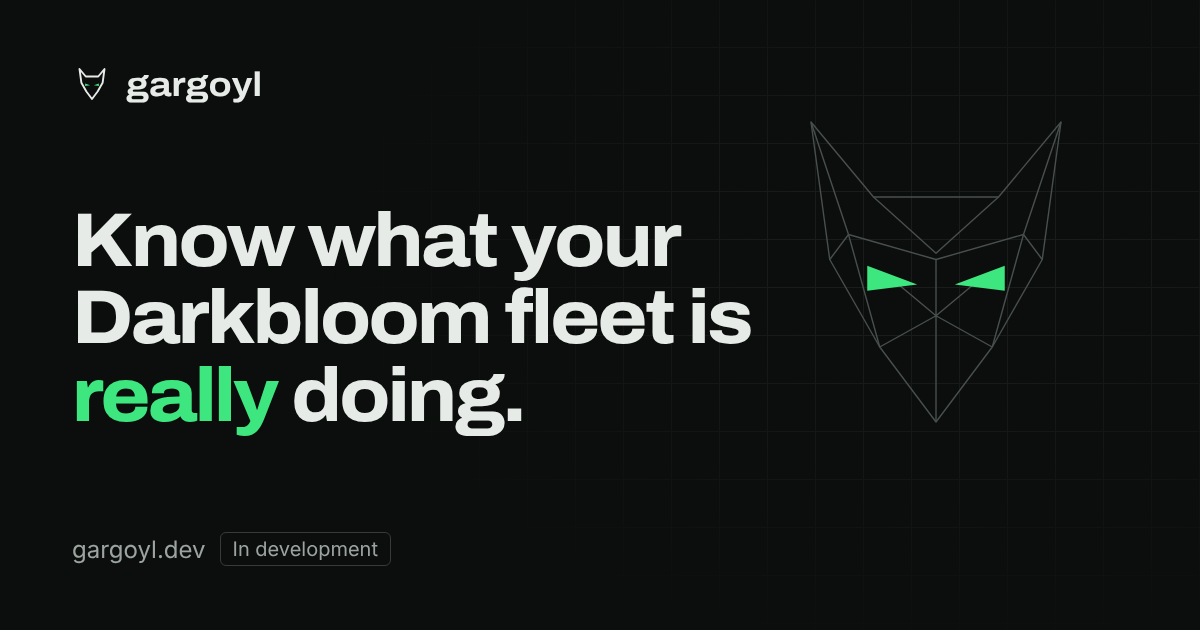
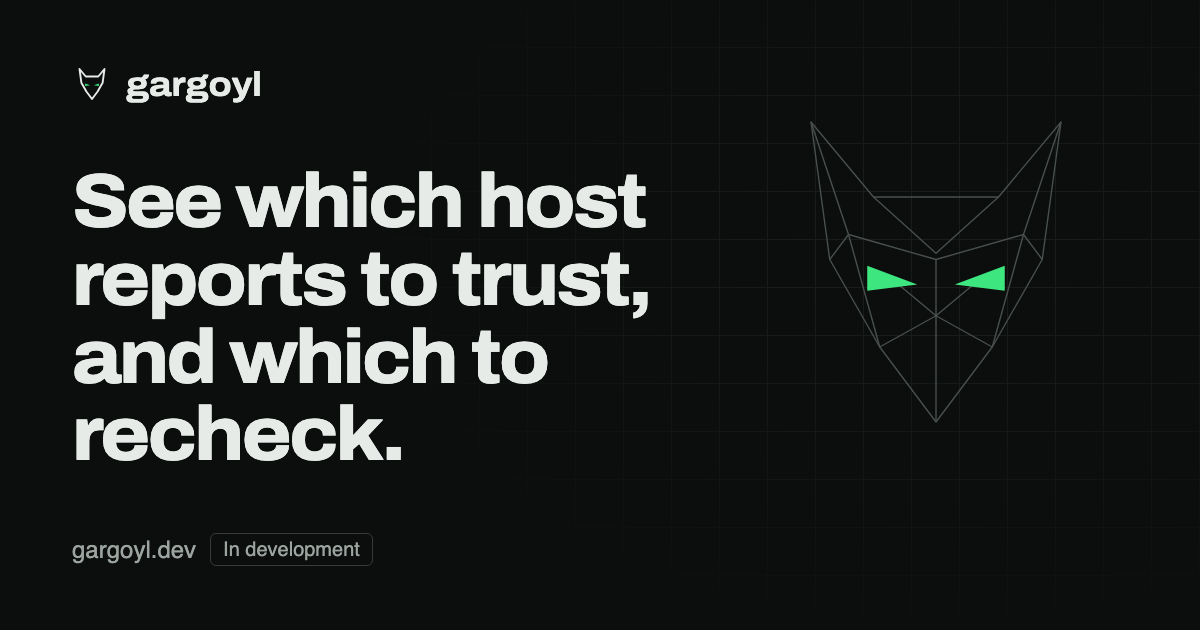
Marketing-friendly copy audit + prose-craft pass on the website (#101)
* site: rewrite marketing copy for lay readers, apply prose-craft rules

Problem: the site copy was written by engineers for engineers. Insider
jargon (per-field state, model residency, opaque host ID), negation-led
framing (never rounded up, Nothing runs on its own, no export override),
and passive voice made the page hard for a new visitor to evaluate.

Change: rewrote every user-facing sentence in site/src/index.html to
lead with the reader's benefit, state the app's honesty doctrine in
plain positive language, and pass the prose-craft skill checks (0
adverbial openers, 0 em dashes, 0.16 short-sentence share, active
voice, second person). Updated the OG card template and re-rendered
og.png to match the new headline.

Effect: a first-time visitor now understands what Gargoyl shows them,
why they should trust the states it reports, and what the development
boundary is, without reading an internal design doc.

* site: describe the host ID as assigned and opaque, not a label

The contract defines host_id as an assigned canonical UUID, never derived
from the hostname, and lists local host labels as sensitive data the
schema refuses. "A short ID you can treat as a label" said the opposite.

* site: restore customer identifiers and the no-override guarantee

"Names" was vaguer than the contract's "customer identifiers" and
collided with "hostnames" and "model names" in the same list. Dropping
"no export override" removed a guarantee the schema enforces.
[…]

Changed region(s): [[0.0617, 0.2714, 0.6475, 0.754], [0.0617, 0.8444, 0.3392, 0.9048], [0.0925, 0.1206, 0.2158, 0.1508]]

diff --git a/site/src/index.html b/site/src/index.html
@@ -3,22 +3,22 @@
 <head>
   <meta charset="utf-8">
   <meta name="viewport" content="width=device-width, initial-scale=1">
-  <title>Gargoyl — Darkbloom fleet monitoring you can inspect</title>
-  <meta name="description" content="Gargoyl is an in-development project for privacy-first evidence on inference-provider fleets, starting with Darkbloom: per-field state for routing, model residency and verification, with confirm-each-host repairs in development.">
+  <title>Gargoyl: inspect your Darkbloom fleet, one host at a time</title>
+  <meta name="description" content="Gargoyl turns each Darkbloom host's routing, model and verification reports into an evidence dashboard that shows you which state to trust and which to recheck. In development now, with confirm-each-host repairs on the way.">
   <meta name="color-scheme" content="dark">
   <meta name="theme-color" content="#0c0e0d">
   <link rel="canonical" href="https://gargoyl.dev/">
   <meta property="og:title" content="Gargoyl">
-  <meta property="og:description" content="Know what your Darkbloom fleet is really doing.">
+  <meta property="og:description" content="See which Darkbloom host reports to trust, which to recheck, and the evidence behind each state.">
   <meta property="og:url" content="https://gargoyl.dev/">
   <meta property="og:type" content="website">
   <meta property="og:image" content="https://gargoyl.dev/og.png">
   <meta property="og:image:width" content="1200">
   <meta property="og:image:height" content="630">
-  <meta property="og:image:alt" content="Gargoyl: Know what your Darkbloom fleet is really doing.">
+  <meta property="og:image:alt" content="Gargoyl: See which host reports to trust, and which to recheck.">
   <meta name="twitter:card" content="summary_large_image">
   <meta name="twitter:title" content="Gargoyl">
-  <meta name="twitter:description" content="Know what your Darkbloom fleet is really doing.">
+  <meta name="twitter:description" content="See which Darkbloom host reports to trust, which to recheck, and the evidence behind each state.">
   <meta name="twitter:image" content="https://gargoyl.dev/og.png">
   <meta name="twitter:creator" content="@nathan_hangen">
   <link rel="icon" href="icon/favicon.svg" type="image/svg+xml">
@@ -59,8 +59,8 @@
       <div class="hero-grid" aria-hidden="true"></div>
       <div class="wrap hero-inner">
         <div class="hero-copy">
-          <h1 id="hero-title">Know what your Darkbloom fleet is <em>really</em> doing.</h1>
-          <p class="lede">Built to show which hosts are up but not routed, missing a model, or past verification, with evidence behind every state. Repairs you confirm host by host are in development.</p>
+          <h1 id="hero-title">See which Darkbloom host reports to trust, and which to recheck.</h1>
+          <p class="lede">Gargoyl reads each host's routing, model and verification reports and shows the evidence behind every state, so a stale or blocked reading shows you which field to look at. Repairs you approve host by host are in development.</p>
           <div class="cta-row">
             <a class="btn btn-primary" {{link:github}}>
               View on GitHub
@@ -128,7 +128,7 @@
             </table>
 
             <figcaption class="panel-foot">
-              Every field carries its own state. Missing or conflicting evidence becomes unknown, never rounded up.
+              Every field keeps its own state. A field reads unknown if its evidence is missing or a source contradicts itself, and you know what to recheck.
             </figcaption>
           </figure>
         </div>
@@ -141,7 +141,7 @@
         <article class="principle">
           <div class="principle-text">
             <h3>Evidence over assumptions</h3>
-            <p>Every field carries its own source, timestamp, freshness window, and state: observed, stale, unknown, or blocked. Missing or conflicting evidence becomes unknown instead of being rounded up to “fine.”</p>
+            <p>Each field keeps its source, timestamp, freshness window and state: observed, stale, unknown, or blocked. A field reads unknown when its evidence is missing or a source contradicts itself, so you see what to recheck instead of a smoothed verdict.</p>
           </div>
           <figure class="snippet">
             <figcaption>One field, as a host reports it (example)</figcaption>
@@ -158,7 +158,7 @@
         <article class="principle">
           <div class="principle-text">
             <h3>Privacy by design</h3>
-            <p>The telemetry schema rejects prompts, completions, credentials, raw logs, customer identifiers, IP addresses, hostnames, and model names, with no export override. Only allowlisted aggregate fields, keyed to an assigned opaque host ID, can leave a host.</p>
+            <p>A host can only send the small set of aggregate fields on an allowlist, each one tied to an opaque ID assigned to that host, never derived from its hostname. Prompts, completions, credentials, raw logs, customer identifiers, IP addresses, hostnames and model names are rejected by the schema, and no setting turns that off.</p>
           </div>
           <figure class="snippet">
             <figcaption>What a host may send (example)</figcaption>
@@ -170,6 +170,7 @@
 <span class="no">rejected by the schema</span>
   <span class="k">prompts, completions</span>
   <span class="k">credentials, raw logs</span>
+  <span class="k">customer identifiers</span>
   <span class="k">IP addresses, hostnames</span>
   <span class="k">model names</span></code></pre>
           </figure>
@@ -177,7 +178,7 @@
         <article class="principle">
           <div class="principle-text">
             <h3>Repairs under your control <span class="badge">In development</span></h3>
-            <p>Repairs come from a short list of approved actions. Each is checked before it runs, targets one host, and waits for your confirmation. Nothing runs on its own. Tested in simulation so far, not yet on live hosts.</p>
+            <p>Repairs draw from a short, approved action list. Each repair checks its target first, touches one host, and waits for your confirmation. Nothing runs on its own. Repairs have been tested in simulation but not yet run on a live host.</p>
           </div>
           <figure class="snippet">
             <figcaption>Sketch of the flow, simulated hosts only</figcaption>
@@ -195,8 +196,8 @@
       <div class="wrap status-inner">
         <svg class="status-mark" aria-hidden="true"><use href="#mark"/></svg>
         <div>
-          <h2 id="status-title">Actively being built.</h2>
-          <p>Darkbloom is the first integration. The telemetry schema, privacy checks, and evidence dashboard are in progress; host enrollment and validation on live hosts are still ahead.</p>
+          <h2 id="status-title">We are building this now.</h2>
+          <p>Darkbloom is the first integration. The telemetry schema, privacy checks and evidence dashboard are in progress; host enrollment and live-host validation come next.</p>
         </div>
         <a class="btn btn-ghost" {{link:github}}>Follow on GitHub</a>
       </div>

diff --git a/site/og/og.html b/site/og/og.html
@@ -105,7 +105,7 @@
       </svg>
       gargoyl
     </div>
-    <h1>Know what your Darkbloom fleet is <em>really</em> doing.</h1>
+    <h1>See which host reports to trust, and which to recheck.</h1>
     <div class="foot">
       <span>gargoyl.dev</span>
       <span class="tag">In development</span>
